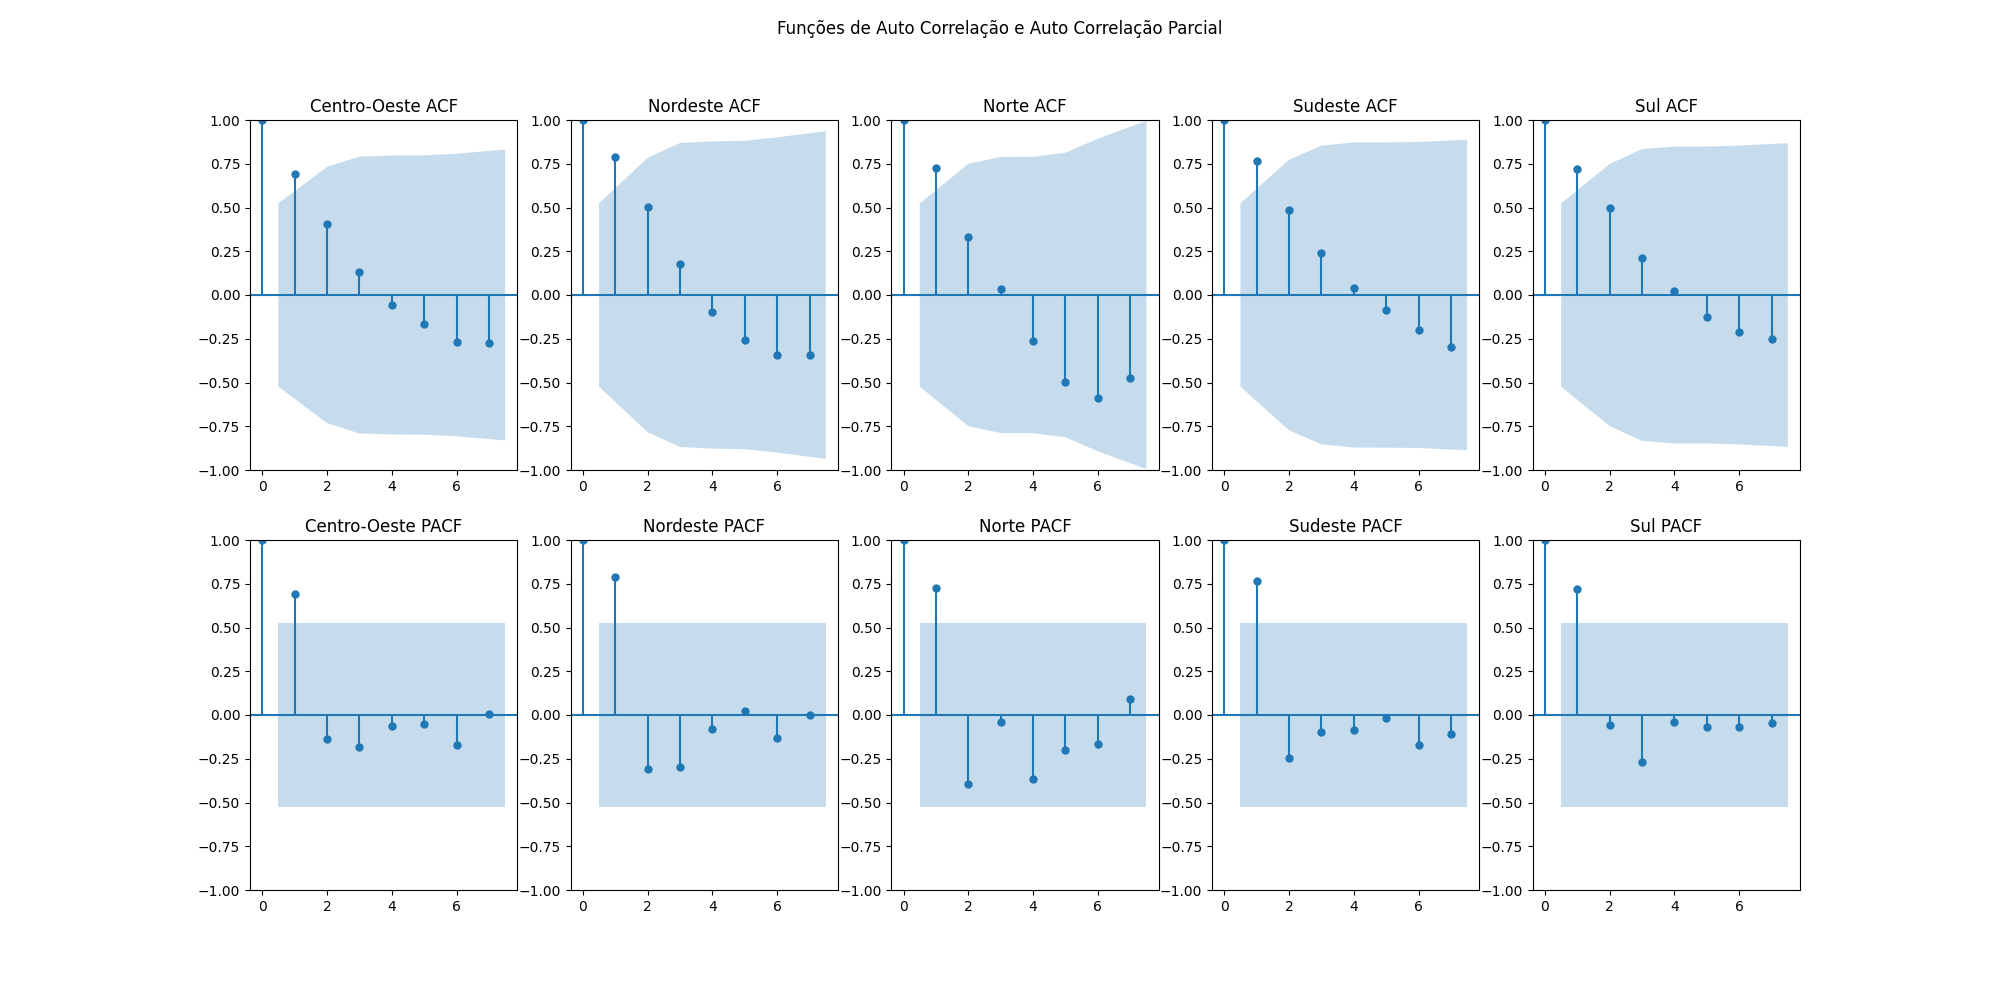
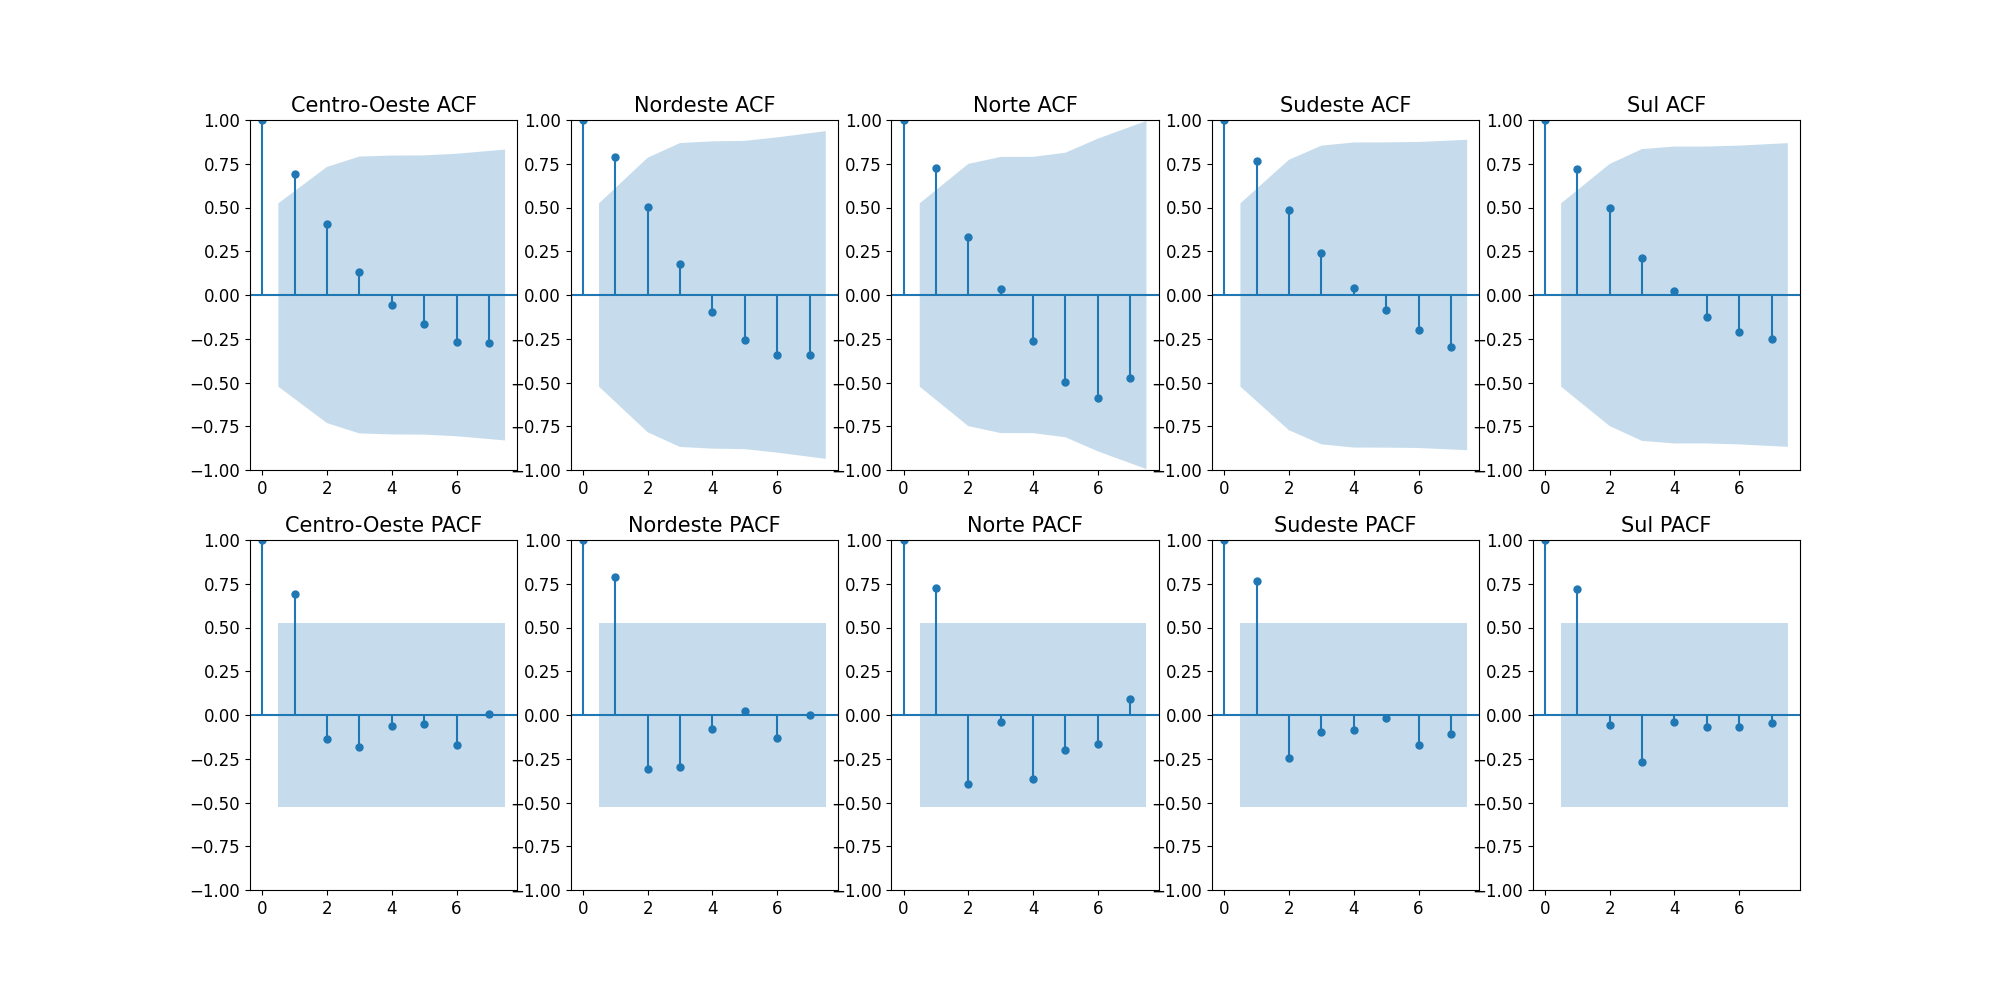
fix: plots and training

diff --git a/src/plots.py b/src/plots.py
@@ -1,6 +1,8 @@
 from statsmodels.graphics.tsaplots import plot_acf, plot_pacf
 from matplotlib import pyplot as plt
 from pathlib import Path
+import numpy as np
+import pandas as pd
 
 NUM_OF_REGIONS = 5
 
@@ -9,15 +11,17 @@ def plot_acf_pacf(df, path=None, lags=None):
     for i, region in enumerate(df.index):
         plot_acf(df.loc[region], lags=lags, ax=ax[0,i])
         plot_pacf(df.loc[region], lags=lags, ax=ax[1,i])
-        ax[0,i].set_title(f"{region} ACF")
-        ax[1,i].set_title(f"{region} PACF")
+        ax[0,i].set_title(f"{region} ACF", fontsize=15)
+        ax[1,i].set_title(f"{region} PACF", fontsize=15)
+        ax[0,i].tick_params(axis='both', which='major', labelsize=12)
+        ax[1,i].tick_params(axis='both', which='major', labelsize=12)
 
     if path is None:
         fig.show()
     else:
         fig.savefig(path)
 
-def plot_time_series(df_bus, df_pop, path):
+def plot_time_series(df_bus, df_pop, base_path):
     fig, ax = plt.subplots(figsize=(8, 5))
 
     for each in df_bus.iterrows():
@@ -28,7 +32,7 @@ def plot_time_series(df_bus, df_pop, path):
     ax.set_xlabel('Ano')
     ax.set_ylabel('Quantidade')
     fig.legend()
-    fig.savefig(path/'time_series_business.png')
+    fig.savefig(base_path/'time_series_business.png')
 
     fig, ax = plt.subplots(figsize=(8, 5))
 
@@ -40,4 +44,39 @@ def plot_time_series(df_bus, df_pop, path):
     ax.set_xlabel('Ano')
     ax.set_ylabel('Quantidade')
     fig.legend()
-    fig.savefig(path/'time_series_population.png')
+    fig.savefig(base_path/'time_series_population.png')
+
+    df_ratio = df_pop/df_bus
+
+    fig, ax = plt.subplots(figsize=(8, 5))
+
+    for each in df_ratio.iterrows():
+      region, values = each
+      ax.plot(values.index, values.values, label=region)
+
+    ax.set_title('Quantidade de pessoas na faixa de interesse por empresa ativa')
+    ax.set_xlabel('Ano')
+    ax.set_ylabel('Quantidade')
+    fig.legend()
+    fig.savefig(base_path/'time_series_ratio.png')
+
+def plot_regions_forecast(df, arima_results, base_path):
+    regions = df.index
+    fig, ax = plt.subplots(1, figsize=(8, 5))
+    for i, region in enumerate(regions):
+        plot_forecast(df, arima_results[region], region, ax)
+
+    ax.set_xlabel('Ano')
+    ax.set_ylabel('Consumidores por empresa ativa')
+
+    fig.legend()
+    fig.savefig(base_path/f'forecast.png', dpi=300)
+
+def plot_forecast(df, arima_result, region, ax):
+    start = 2020
+    end = 2022
+
+    p = ax.plot(np.arange(start,end+1), np.r_[df.loc[region].values[-1],
+                arima_result.predict(start=start-2007,end=end-2007-1)],
+                ls='--')
+    ax.plot(df.columns, df.loc[region].values, c=p[0].get_color(), label=region,)

diff --git a/figs.py b/figs.py
@@ -2,6 +2,7 @@ from src import preprocess
 from src import fetching
 from src import validation
 from src import plots
+from src import training
 
 from statsmodels.graphics.tsaplots import plot_acf, plot_pacf
 from matplotlib import pyplot as plt
@@ -25,4 +26,8 @@ if __name__ == '__main__':
     plots.plot_acf_pacf(df_ratio, path=FIGURES/"acf_pacf.png")
     plots.plot_time_series(df_bus, df_pop, FIGURES)
 
-    result = validation.rolling_window_cv(df_ratio, [(1,0,0),(1,1,0),(1,1,1),(0,1,1),(0,0,1),(0,1,0)])
+    validation_metrics = validation.rolling_window_cv(df_ratio, [(1,0,0),(1,1,0),(1,1,1),(0,1,1),(0,0,1),(0,1,0)])
+
+    results = training.train_for_each_region(df_ratio, (1,1,0))
+
+    plots.plot_regions_forecast(df_ratio, results, FIGURES)

diff --git a/src/training.py b/src/training.py
@@ -7,7 +7,10 @@ def train_for_each_region(df: pd.DataFrame, order: tuple[int,int,int]) -> dict[s
     results = {}
 
     for region in regions:
-        result = ARIMA(order).fit(df.loc[region])
+        print(f"Training ARIMA model for {region}")
+        print(df.loc[region].values)
+        result = ARIMA(df.loc[region].values, order=order).fit()
+        print(result.forecast())
         results[region] = result
 
     return results
